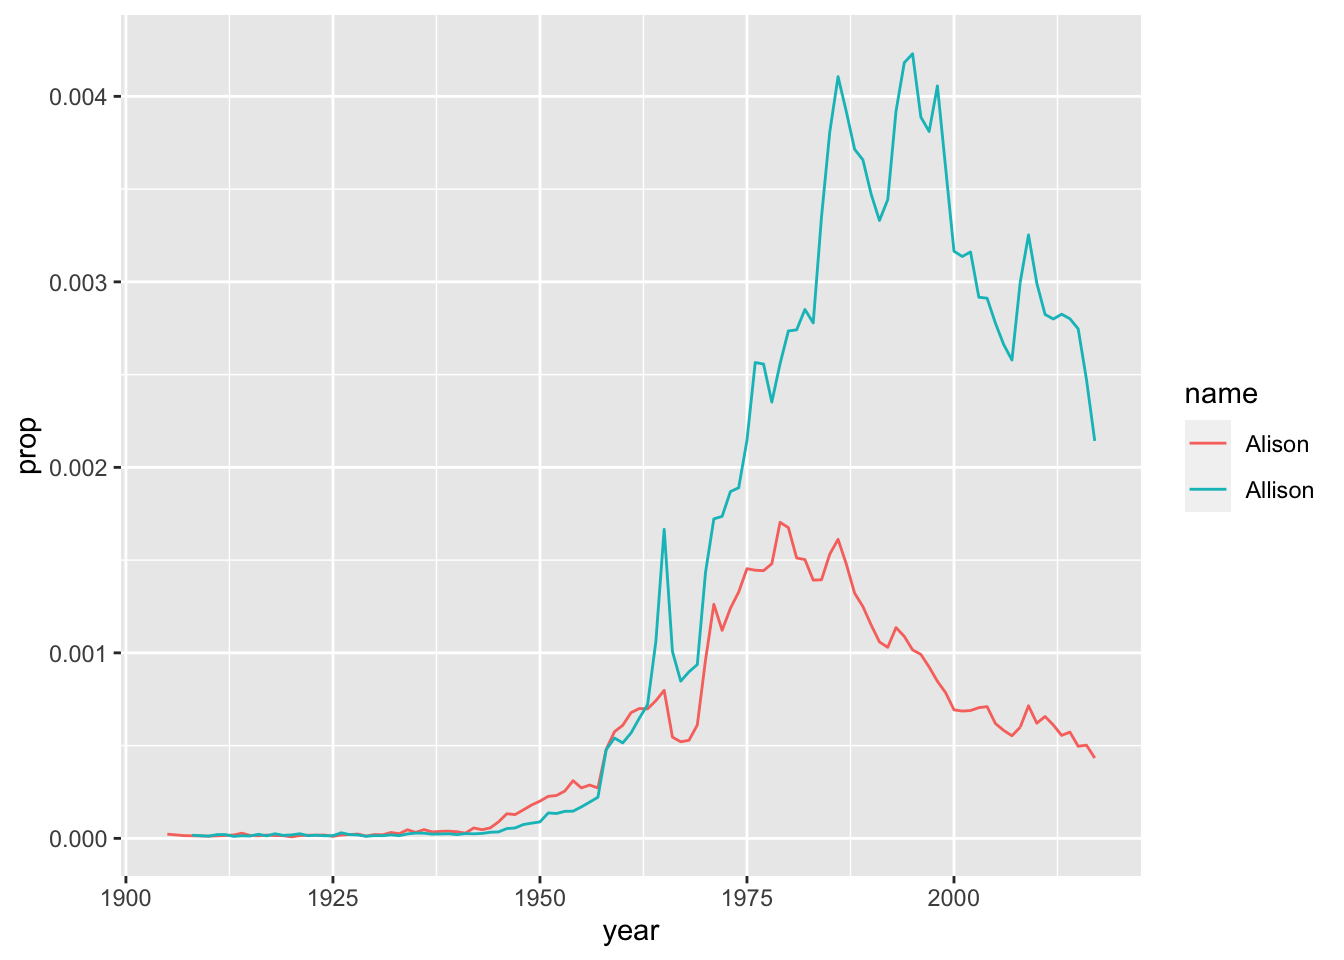
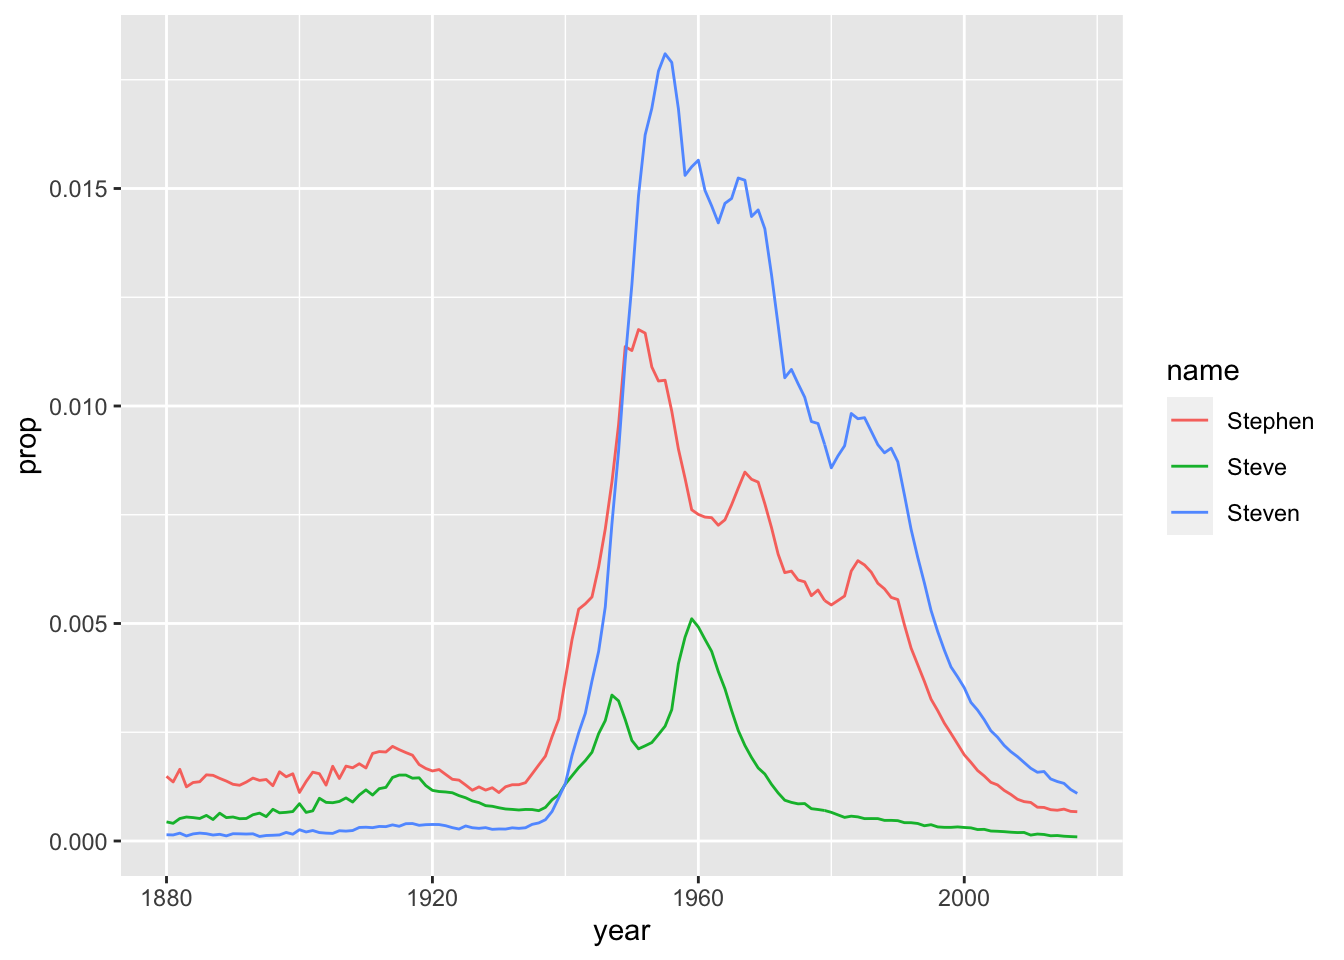
Updated name plot lab

diff --git a/00-install_name_plot.html b/00-install_name_plot.html
@@ -450,7 +450,9 @@ package.</li>
 </ul>
 <pre class="r"><code>install.packages(&quot;devtools&quot;)
 library(devtools)
-install_github(&quot;name_of_package&quot;)</code></pre>
+install_github(&quot;name_of_package&quot;) # replace with the actual name of the package</code></pre>
+<p><em>Side note: for this lab, you will not need to install any
+packages from Github- this is just for future reference.</em></p>
 <p>One nice thing about using RStudio Cloud is that a workspace project
 (like the one you’ve just opened up) can come pre-loaded with the
 necessary libraries, which is a real time-saver in a classroom
@@ -584,77 +586,85 @@ the columns? Is that what we were expecting?</li>
 <li>Looking at a few of the actual rows of data, do the right values
 appear to have ended up in the right columns?</li>
 </ol>
+<p><em>Side note: not all of these questions are relevant for all
+datasets; for example, the <code>babynames</code> dataset does not have
+any times… but it does have years, so you might want to check and see
+what the range of that variable is. Does it make sense?</em></p>
 <p>If you have done the above and produced sane-looking output, you are
 ready for the next bit. Use the code below to create a new data frame
-called <code>alison</code>.</p>
-<pre class="r"><code>alison &lt;- babynames %&gt;%
-  filter(name == &quot;Alison&quot; | name == &quot;Allison&quot;) %&gt;% 
-  filter(sex == &quot;F&quot;) </code></pre>
+called <code>steve</code>.</p>
+<pre class="r"><code>steve &lt;- babynames %&gt;%
+  filter(name == &quot;Steven&quot; | name == &quot;Steve&quot; | name == &quot;Stephen&quot;) %&gt;%
+  filter(sex == &quot;M&quot;)</code></pre>
 <ul>
-<li><p>The first line makes a new dataset called <code>alison</code>,
+<li><p>The first line makes a new dataset called <code>steve</code>,
 whose “life” begins with a copy of the <code>babynames</code> dataset-
 the <code>%&gt;%</code> tells you we are doing some other stuff to it
 later.</p></li>
 <li><p>The second line <code>filters</code> our <code>babynames</code>
-to only keep rows where the <code>name</code> is either “Alison” or
-“Allison” (read <code>|</code> as <em>“or”</em>.)</p></li>
+to only keep rows where the <code>name</code> is either “Steven”,
+“Steve”, or “Stephen” (read <code>|</code> as <em>“or”</em>.)</p></li>
 <li><p>The third bit applies another <code>filter</code> to keep only
-those where sex is female.</p></li>
+those where sex is male (the Social Security Administration’s database
+is still very 20th-century).</p></li>
 </ul>
 <p>When you ran that command, you may have noticed a new entry appear on
 the right-hand side of the screen, in the “environment” tab. This tab
 lists all of the variables that your current environment has loaded.</p>
 <p><img src="images/lab_00/09_environment_tab.png" /></p>
 <p>Let’s check out the data.</p>
-<pre class="r"><code>alison</code></pre>
-<pre><code># A tibble: 218 × 5
-    year sex   name        n      prop
-   &lt;dbl&gt; &lt;chr&gt; &lt;chr&gt;   &lt;int&gt;     &lt;dbl&gt;
- 1  1905 F     Alison      7 0.0000226
- 2  1907 F     Alison      5 0.0000148
- 3  1908 F     Allison     6 0.0000169
- 4  1910 F     Alison      5 0.0000119
- 5  1910 F     Allison     5 0.0000119
- 6  1911 F     Allison     9 0.0000204
- 7  1912 F     Allison    12 0.0000204
- 8  1912 F     Alison      9 0.0000153
- 9  1913 F     Alison     12 0.0000183
-10  1913 F     Allison     7 0.0000107
-# … with 208 more rows</code></pre>
-<pre class="r"><code>glimpse(alison)</code></pre>
-<pre><code>Rows: 218
+<pre class="r"><code>steve</code></pre>
+<pre><code># A tibble: 414 × 5
+    year sex   name        n     prop
+   &lt;dbl&gt; &lt;chr&gt; &lt;chr&gt;   &lt;int&gt;    &lt;dbl&gt;
+ 1  1880 M     Stephen   176 0.00149 
+ 2  1880 M     Steve      52 0.000439
+ 3  1880 M     Steven     17 0.000144
+ 4  1881 M     Stephen   147 0.00136 
+ 5  1881 M     Steve      44 0.000406
+ 6  1881 M     Steven     15 0.000139
+ 7  1882 M     Stephen   201 0.00165 
+ 8  1882 M     Steve      63 0.000516
+ 9  1882 M     Steven     22 0.000180
+10  1883 M     Stephen   140 0.00124 
+# … with 404 more rows</code></pre>
+<pre class="r"><code>glimpse(steve)</code></pre>
+<pre><code>Rows: 414
 Columns: 5
-$ year &lt;dbl&gt; 1905, 1907, 1908, 1910, 1910, 1911, 1912, 1912, 1913, 1913, 1914,…
-$ sex  &lt;chr&gt; &quot;F&quot;, &quot;F&quot;, &quot;F&quot;, &quot;F&quot;, &quot;F&quot;, &quot;F&quot;, &quot;F&quot;, &quot;F&quot;, &quot;F&quot;, &quot;F&quot;, &quot;F&quot;, &quot;F&quot;, &quot;F&quot;, …
-$ name &lt;chr&gt; &quot;Alison&quot;, &quot;Alison&quot;, &quot;Allison&quot;, &quot;Alison&quot;, &quot;Allison&quot;, &quot;Allison&quot;, &quot;A…
-$ n    &lt;int&gt; 7, 5, 6, 5, 5, 9, 12, 9, 12, 7, 22, 11, 16, 13, 24, 15, 20, 15, 3…
-$ prop &lt;dbl&gt; 2.259e-05, 1.482e-05, 1.692e-05, 1.192e-05, 1.192e-05, 2.037e-05,…</code></pre>
-<p>You should see that the structure of the <code>alison</code>
-dataframe looks just like that of the <code>babynames</code> dataframe,
-but with many fewer rows.</p>
+$ year &lt;dbl&gt; 1880, 1880, 1880, 1881, 1881, 1881, 1882, 1882, 1882, 1883, 1883,…
+$ sex  &lt;chr&gt; &quot;M&quot;, &quot;M&quot;, &quot;M&quot;, &quot;M&quot;, &quot;M&quot;, &quot;M&quot;, &quot;M&quot;, &quot;M&quot;, &quot;M&quot;, &quot;M&quot;, &quot;M&quot;, &quot;M&quot;, &quot;M&quot;, …
+$ name &lt;chr&gt; &quot;Stephen&quot;, &quot;Steve&quot;, &quot;Steven&quot;, &quot;Stephen&quot;, &quot;Steve&quot;, &quot;Steven&quot;, &quot;Step…
+$ n    &lt;int&gt; 176, 52, 17, 147, 44, 15, 201, 63, 22, 140, 62, 13, 165, 66, 20, …
+$ prop &lt;dbl&gt; 0.00148649, 0.00043919, 0.00014358, 0.00135757, 0.00040635, 0.000…</code></pre>
+<p>You should see that the structure of the <code>steve</code> dataframe
+looks just like that of the <code>babynames</code> dataframe, but with
+many fewer rows.</p>
 <p>Again, if you have sane-looking output here, move along to plotting
 the data!</p>
-<pre class="r"><code>plot &lt;- ggplot(alison, aes(x = year, 
+<pre class="r"><code>name.plot &lt;- ggplot(steve, aes(x = year, 
                            y = prop,  
                            group = name, 
                            color = name)) + 
   geom_line()  </code></pre>
-<p>Now if you did this right, you will not see your plot! Because we
-saved the <code>ggplot</code> with a name (<code>plot</code>), R just
-saved the object for you. But check out the top right pane in RStudio
-again: under <code>Data</code> you should see <code>plot</code>, so it
-is there, you just have to ask for it. Here’s how:</p>
-<pre class="r"><code>plot </code></pre>
+<p>Now, if you are following along precisely, you will not see your
+plot! This is because we saved the result of <code>ggplot</code> with a
+name (<code>name.plot</code>) But check out the top right pane in
+RStudio again: under <code>Data</code> you should see
+<code>name.plot</code>— so it <em>is</em> there, you just have to ask
+for it. Here’s how:</p>
+<pre class="r"><code>name.plot </code></pre>
 <p><img src="00-install_name_plot_files/figure-html/unnamed-chunk-2-1.png" width="672" /></p>
 </div>
 <div id="make-a-new-name-plot" class="section level1" number="5">
 <h1><span class="header-section-number">5</span> Make a new name
 plot</h1>
-<p>Edit my code above to create a new dataset. Pick 2 names to compare
-how popular they each are (these could be different spellings of your
-own name, like I did, but you can choose any 2 names that are present in
-the dataset). Make the new plot, changing the name of the first argument
-<code>alison</code> in <code>ggplot()</code> to the name of your new
+<p>Edit my code above to create a new dataset (don’t worry if you’re not
+sure about what every single bit of the code is doing, just dive in and
+go for it). Pick a handful of names to compare how popular they each are
+(these could be different spellings of your own name, like I did, but
+you can choose any pair (or trio, etc.) of names that are present in the
+dataset). Make the new plot, changing the name of the first argument –
+<code>steve</code> – in <code>ggplot()</code> to the name of your new
 dataset.</p>
 <div id="save-and-share" class="section level2" number="5.1">
 <h2><span class="header-section-number">5.1</span> Save and share</h2>
@@ -663,10 +673,10 @@ not like the looks of your plot if you mouse over to <code>Export</code>
 and save it. Instead, use <code>ggplot2</code>’s command for saving a
 plot with sensible defaults:</p>
 <pre class="r"><code>help(ggsave)</code></pre>
-<pre class="r"><code>ggsave(&quot;alison_hill.pdf&quot;, plot) # please make the filename unique!</code></pre>
+<pre class="r"><code>ggsave(&quot;steve_b.pdf&quot;, name.plot) # please make the filename unique!</code></pre>
 <p>Upload this exported plot to Sakai before Wednesday at noon.</p>
 <p>(Note that <em>your</em> plot, the one that you turn in, should not
-be called <code>alison_hill.pdf</code>- it should be named something
+be called <code>steve_b.pdf</code>- it should be named something
 else).</p>
 </div>
 </div>
@@ -674,6 +684,7 @@ else).</p>
 number="6">
 <h1><span class="header-section-number">6</span> Other cool
 <code>babynames</code> projects</h1>
+<p>For inspiration:</p>
 <ul>
 <li>Julia Silge <em>‘My Baby Boomer Name Might Have Been “Debbie”’</em>:
 <a href="https://juliasilge.com/blog/my-baby-boomer-name/"
